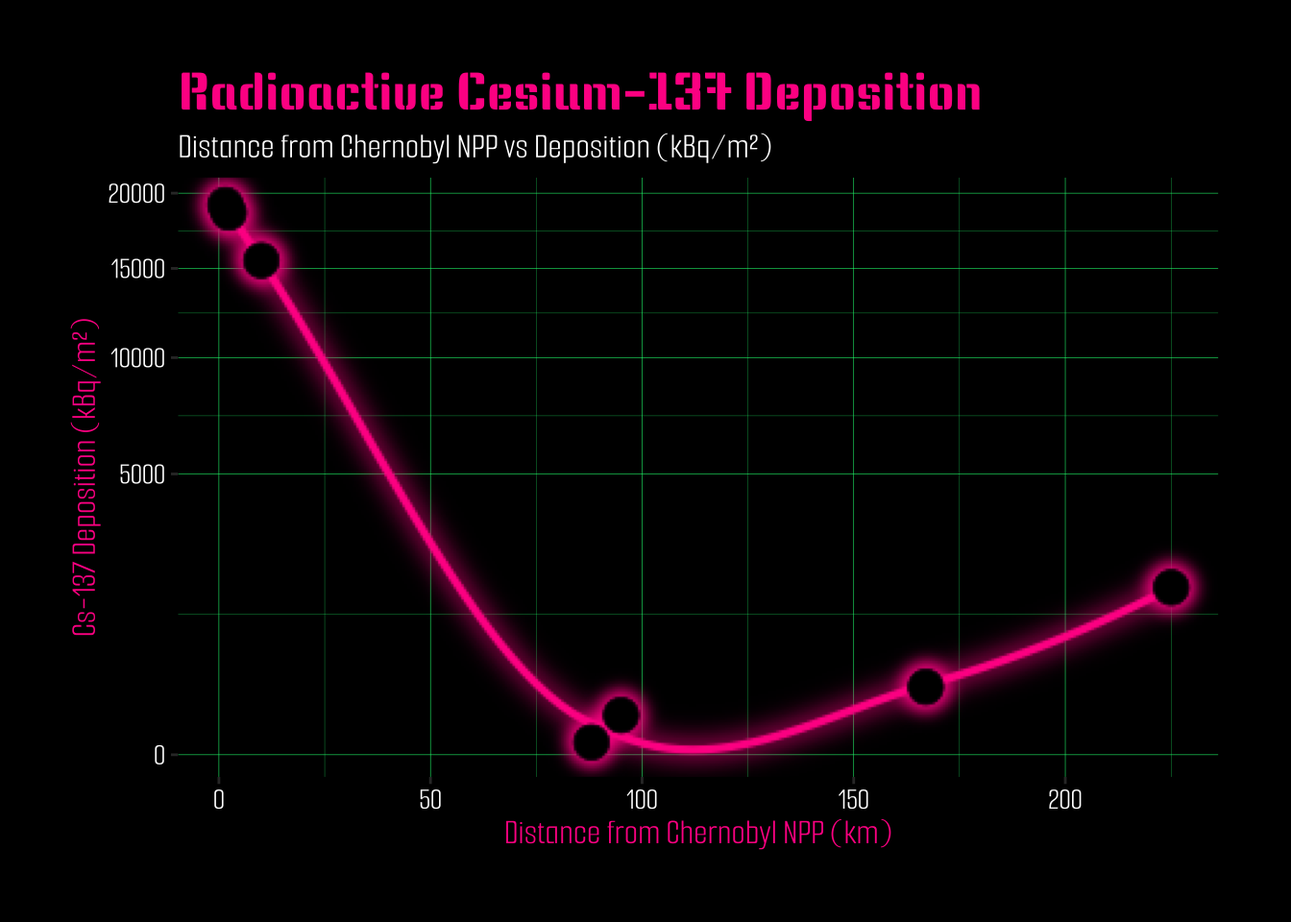
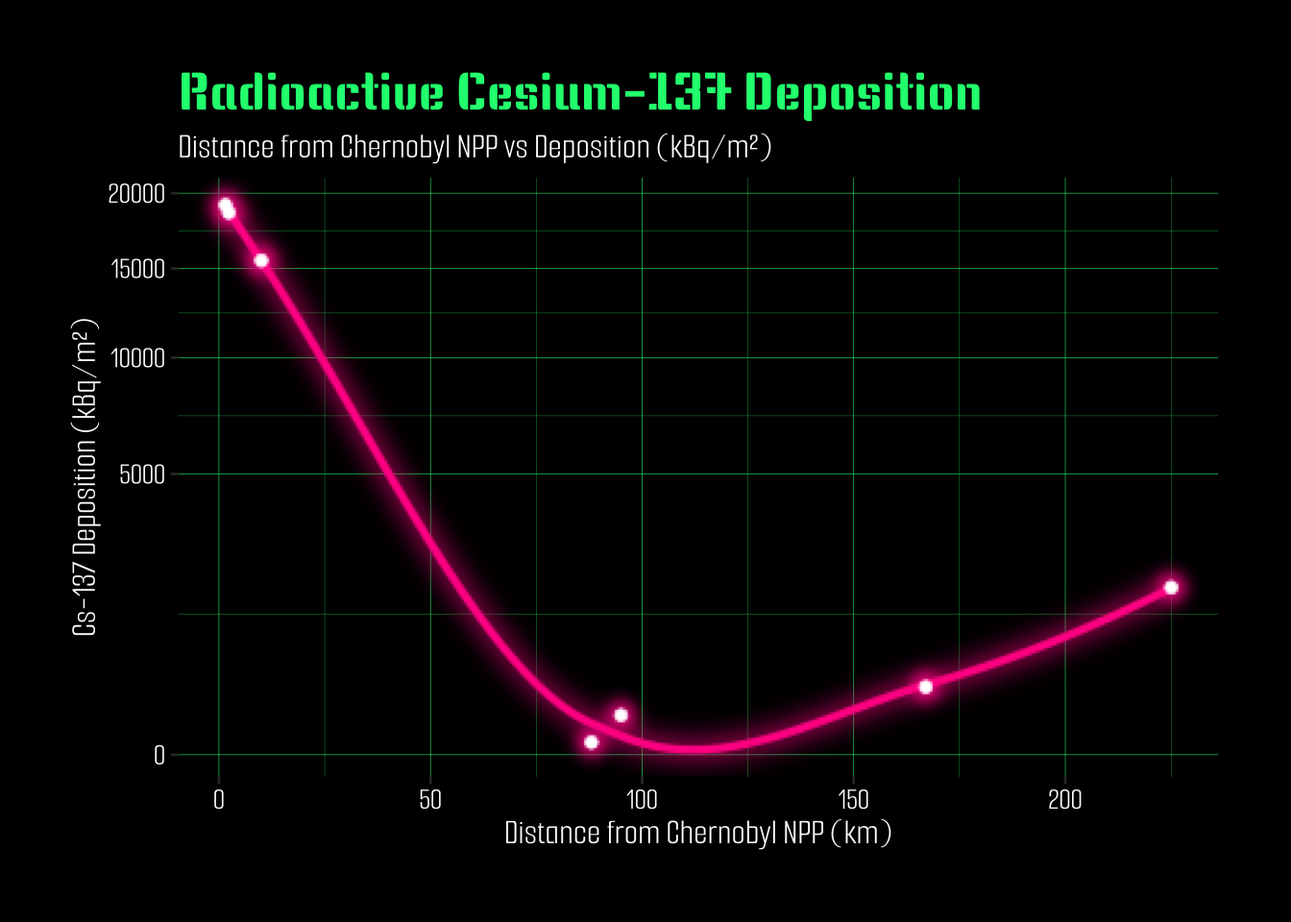
moving to hw4 repo

diff --git a/eds240-hw3.html b/eds240-hw3.html
@@ -148,20 +148,22 @@ pre > code.sourceCode > span > a:first-child::before { text-decoration: underlin
 <span id="cb1-3"><a href="#cb1-3" aria-hidden="true" tabindex="-1"></a><span class="fu">library</span>(dplyr) </span>
 <span id="cb1-4"><a href="#cb1-4" aria-hidden="true" tabindex="-1"></a><span class="fu">library</span>(ggplot2)</span>
 <span id="cb1-5"><a href="#cb1-5" aria-hidden="true" tabindex="-1"></a><span class="fu">library</span>(janitor)</span>
-<span id="cb1-6"><a href="#cb1-6" aria-hidden="true" tabindex="-1"></a><span class="fu">library</span>(sf)</span>
-<span id="cb1-7"><a href="#cb1-7" aria-hidden="true" tabindex="-1"></a><span class="fu">library</span>(scico)</span>
-<span id="cb1-8"><a href="#cb1-8" aria-hidden="true" tabindex="-1"></a><span class="fu">library</span>(tidyverse)</span>
-<span id="cb1-9"><a href="#cb1-9" aria-hidden="true" tabindex="-1"></a><span class="fu">library</span>(htmltools)</span>
-<span id="cb1-10"><a href="#cb1-10" aria-hidden="true" tabindex="-1"></a><span class="fu">library</span>(ggrepel)</span>
-<span id="cb1-11"><a href="#cb1-11" aria-hidden="true" tabindex="-1"></a><span class="fu">library</span>(scales)</span>
-<span id="cb1-12"><a href="#cb1-12" aria-hidden="true" tabindex="-1"></a><span class="fu">library</span>(stringr)</span>
-<span id="cb1-13"><a href="#cb1-13" aria-hidden="true" tabindex="-1"></a><span class="fu">library</span>(lubridate)</span>
-<span id="cb1-14"><a href="#cb1-14" aria-hidden="true" tabindex="-1"></a><span class="fu">library</span>(ggimage)</span>
-<span id="cb1-15"><a href="#cb1-15" aria-hidden="true" tabindex="-1"></a><span class="fu">library</span>(ggfx)</span>
-<span id="cb1-16"><a href="#cb1-16" aria-hidden="true" tabindex="-1"></a><span class="fu">library</span>(ggtext)</span>
-<span id="cb1-17"><a href="#cb1-17" aria-hidden="true" tabindex="-1"></a><span class="fu">library</span>(sysfonts)</span>
-<span id="cb1-18"><a href="#cb1-18" aria-hidden="true" tabindex="-1"></a><span class="fu">library</span>(magick)</span>
-<span id="cb1-19"><a href="#cb1-19" aria-hidden="true" tabindex="-1"></a><span class="fu">library</span>(showtext)</span></code><button title="Copy to Clipboard" class="code-copy-button"><i class="bi"></i></button></pre></div>
+<span id="cb1-6"><a href="#cb1-6" aria-hidden="true" tabindex="-1"></a><span class="fu">library</span>(jpeg)</span>
+<span id="cb1-7"><a href="#cb1-7" aria-hidden="true" tabindex="-1"></a><span class="fu">library</span>(patchwork)</span>
+<span id="cb1-8"><a href="#cb1-8" aria-hidden="true" tabindex="-1"></a><span class="fu">library</span>(scico)</span>
+<span id="cb1-9"><a href="#cb1-9" aria-hidden="true" tabindex="-1"></a><span class="fu">library</span>(tidyverse)</span>
+<span id="cb1-10"><a href="#cb1-10" aria-hidden="true" tabindex="-1"></a><span class="fu">library</span>(htmltools)</span>
+<span id="cb1-11"><a href="#cb1-11" aria-hidden="true" tabindex="-1"></a><span class="fu">library</span>(ggrepel)</span>
+<span id="cb1-12"><a href="#cb1-12" aria-hidden="true" tabindex="-1"></a><span class="fu">library</span>(grid)</span>
+<span id="cb1-13"><a href="#cb1-13" aria-hidden="true" tabindex="-1"></a><span class="fu">library</span>(scales)</span>
+<span id="cb1-14"><a href="#cb1-14" aria-hidden="true" tabindex="-1"></a><span class="fu">library</span>(stringr)</span>
+<span id="cb1-15"><a href="#cb1-15" aria-hidden="true" tabindex="-1"></a><span class="fu">library</span>(lubridate)</span>
+<span id="cb1-16"><a href="#cb1-16" aria-hidden="true" tabindex="-1"></a><span class="fu">library</span>(ggimage)</span>
+<span id="cb1-17"><a href="#cb1-17" aria-hidden="true" tabindex="-1"></a><span class="fu">library</span>(ggfx)</span>
+<span id="cb1-18"><a href="#cb1-18" aria-hidden="true" tabindex="-1"></a><span class="fu">library</span>(ggtext)</span>
+<span id="cb1-19"><a href="#cb1-19" aria-hidden="true" tabindex="-1"></a><span class="fu">library</span>(sysfonts)</span>
+<span id="cb1-20"><a href="#cb1-20" aria-hidden="true" tabindex="-1"></a><span class="fu">library</span>(magick)</span>
+<span id="cb1-21"><a href="#cb1-21" aria-hidden="true" tabindex="-1"></a><span class="fu">library</span>(showtext)</span></code><button title="Copy to Clipboard" class="code-copy-button"><i class="bi"></i></button></pre></div>
 </div>
 <div class="cell">
 <div class="sourceCode cell-code" id="cb2"><pre class="sourceCode r code-with-copy"><code class="sourceCode r"><span id="cb2-1"><a href="#cb2-1" aria-hidden="true" tabindex="-1"></a><span class="co"># paths </span></span>
@@ -417,65 +419,101 @@ Ignoring unknown parameters: `linejoin`</code></pre>
 <section id="create-exposure-data-viz" class="level1">
 <h1>Create exposure data viz</h1>
 <div class="cell">
-<div class="sourceCode cell-code" id="cb17"><pre class="sourceCode r code-with-copy"><code class="sourceCode r"><span id="cb17-1"><a href="#cb17-1" aria-hidden="true" tabindex="-1"></a>exposure <span class="ot">&lt;-</span> <span class="fu">ggplot</span>(chernobyl_exposure, <span class="fu">aes</span>(</span>
-<span id="cb17-2"><a href="#cb17-2" aria-hidden="true" tabindex="-1"></a>  <span class="at">x =</span> distance_from_ch_npp_km,</span>
-<span id="cb17-3"><a href="#cb17-3" aria-hidden="true" tabindex="-1"></a>  <span class="at">y =</span> <span class="dv">1</span>,</span>
-<span id="cb17-4"><a href="#cb17-4" aria-hidden="true" tabindex="-1"></a>  <span class="at">fill =</span> exposure_dose_rate_m_r_h</span>
-<span id="cb17-5"><a href="#cb17-5" aria-hidden="true" tabindex="-1"></a>)) <span class="sc">+</span></span>
-<span id="cb17-6"><a href="#cb17-6" aria-hidden="true" tabindex="-1"></a>  </span>
-<span id="cb17-7"><a href="#cb17-7" aria-hidden="true" tabindex="-1"></a>  <span class="fu">geom_tile</span>(<span class="at">width =</span> <span class="dv">8</span>, <span class="at">height =</span> <span class="dv">1</span>) <span class="sc">+</span> </span>
-<span id="cb17-8"><a href="#cb17-8" aria-hidden="true" tabindex="-1"></a>    </span>
-<span id="cb17-9"><a href="#cb17-9" aria-hidden="true" tabindex="-1"></a>  <span class="fu">scale_fill_gradientn</span>(</span>
-<span id="cb17-10"><a href="#cb17-10" aria-hidden="true" tabindex="-1"></a>      </span>
-<span id="cb17-11"><a href="#cb17-11" aria-hidden="true" tabindex="-1"></a>    <span class="at">colours =</span> <span class="fu">c</span>(<span class="st">"springgreen"</span>,<span class="st">"deeppink"</span>, <span class="st">"firebrick2"</span>),</span>
-<span id="cb17-12"><a href="#cb17-12" aria-hidden="true" tabindex="-1"></a>    <span class="at">name =</span> <span class="st">"Dose Rate</span><span class="sc">\n</span><span class="st">(mR/h)"</span>,</span>
-<span id="cb17-13"><a href="#cb17-13" aria-hidden="true" tabindex="-1"></a>    <span class="at">transform =</span> <span class="st">"sqrt"</span></span>
-<span id="cb17-14"><a href="#cb17-14" aria-hidden="true" tabindex="-1"></a>    </span>
-<span id="cb17-15"><a href="#cb17-15" aria-hidden="true" tabindex="-1"></a>    ) <span class="sc">+</span></span>
-<span id="cb17-16"><a href="#cb17-16" aria-hidden="true" tabindex="-1"></a>    </span>
-<span id="cb17-17"><a href="#cb17-17" aria-hidden="true" tabindex="-1"></a>  <span class="fu">guides</span>(<span class="at">fill =</span> <span class="fu">guide_colorbar</span>(</span>
-<span id="cb17-18"><a href="#cb17-18" aria-hidden="true" tabindex="-1"></a>    </span>
-<span id="cb17-19"><a href="#cb17-19" aria-hidden="true" tabindex="-1"></a>    <span class="at">barwidth =</span> <span class="dv">20</span>,</span>
-<span id="cb17-20"><a href="#cb17-20" aria-hidden="true" tabindex="-1"></a>    <span class="at">barheight =</span> <span class="fl">0.4</span>,</span>
-<span id="cb17-21"><a href="#cb17-21" aria-hidden="true" tabindex="-1"></a>    <span class="at">reverse =</span> <span class="cn">TRUE</span>)</span>
-<span id="cb17-22"><a href="#cb17-22" aria-hidden="true" tabindex="-1"></a>    </span>
-<span id="cb17-23"><a href="#cb17-23" aria-hidden="true" tabindex="-1"></a>    ) <span class="sc">+</span></span>
-<span id="cb17-24"><a href="#cb17-24" aria-hidden="true" tabindex="-1"></a>    </span>
-<span id="cb17-25"><a href="#cb17-25" aria-hidden="true" tabindex="-1"></a>  <span class="fu">labs</span>(</span>
+<div class="sourceCode cell-code" id="cb17"><pre class="sourceCode r code-with-copy"><code class="sourceCode r"><span id="cb17-1"><a href="#cb17-1" aria-hidden="true" tabindex="-1"></a><span class="co"># save power plant image path </span></span>
+<span id="cb17-2"><a href="#cb17-2" aria-hidden="true" tabindex="-1"></a>path <span class="ot">&lt;-</span> <span class="fu">here</span>(<span class="st">"samples"</span>, <span class="st">"plant.png"</span>)</span>
+<span id="cb17-3"><a href="#cb17-3" aria-hidden="true" tabindex="-1"></a></span>
+<span id="cb17-4"><a href="#cb17-4" aria-hidden="true" tabindex="-1"></a><span class="co"># read as JPEG</span></span>
+<span id="cb17-5"><a href="#cb17-5" aria-hidden="true" tabindex="-1"></a>plant <span class="ot">&lt;-</span> <span class="fu">readJPEG</span>(path, <span class="at">native =</span> <span class="cn">FALSE</span>)</span>
+<span id="cb17-6"><a href="#cb17-6" aria-hidden="true" tabindex="-1"></a></span>
+<span id="cb17-7"><a href="#cb17-7" aria-hidden="true" tabindex="-1"></a><span class="co"># turn to raster grob</span></span>
+<span id="cb17-8"><a href="#cb17-8" aria-hidden="true" tabindex="-1"></a>plant_grob <span class="ot">&lt;-</span> <span class="fu">rasterGrob</span>(plant,</span>
+<span id="cb17-9"><a href="#cb17-9" aria-hidden="true" tabindex="-1"></a>                         <span class="at">width =</span> <span class="fu">unit</span>(<span class="dv">3</span>, <span class="st">"cm"</span>), </span>
+<span id="cb17-10"><a href="#cb17-10" aria-hidden="true" tabindex="-1"></a>                         <span class="at">x =</span> <span class="fu">unit</span>(<span class="dv">0</span>, <span class="st">"npc"</span>),  </span>
+<span id="cb17-11"><a href="#cb17-11" aria-hidden="true" tabindex="-1"></a>                         <span class="at">y =</span> <span class="fu">unit</span>(<span class="dv">0</span>, <span class="st">"npc"</span>), </span>
+<span id="cb17-12"><a href="#cb17-12" aria-hidden="true" tabindex="-1"></a>                         <span class="at">just =</span> <span class="fu">c</span>(<span class="st">"left"</span>, <span class="st">"center"</span>)) </span>
+<span id="cb17-13"><a href="#cb17-13" aria-hidden="true" tabindex="-1"></a>                    </span>
+<span id="cb17-14"><a href="#cb17-14" aria-hidden="true" tabindex="-1"></a>                    </span>
+<span id="cb17-15"><a href="#cb17-15" aria-hidden="true" tabindex="-1"></a>                    </span>
+<span id="cb17-16"><a href="#cb17-16" aria-hidden="true" tabindex="-1"></a>                    </span>
+<span id="cb17-17"><a href="#cb17-17" aria-hidden="true" tabindex="-1"></a></span>
+<span id="cb17-18"><a href="#cb17-18" aria-hidden="true" tabindex="-1"></a><span class="co"># make main plot</span></span>
+<span id="cb17-19"><a href="#cb17-19" aria-hidden="true" tabindex="-1"></a>exposure <span class="ot">&lt;-</span> <span class="fu">ggplot</span>(chernobyl_exposure, <span class="fu">aes</span>(</span>
+<span id="cb17-20"><a href="#cb17-20" aria-hidden="true" tabindex="-1"></a>  <span class="at">y =</span> <span class="dv">0</span>,  </span>
+<span id="cb17-21"><a href="#cb17-21" aria-hidden="true" tabindex="-1"></a>  <span class="at">x =</span> distance_from_ch_npp_km,</span>
+<span id="cb17-22"><a href="#cb17-22" aria-hidden="true" tabindex="-1"></a>  <span class="at">fill =</span> absorbed_dose_rate_micro_gray_h</span>
+<span id="cb17-23"><a href="#cb17-23" aria-hidden="true" tabindex="-1"></a>)) <span class="sc">+</span></span>
+<span id="cb17-24"><a href="#cb17-24" aria-hidden="true" tabindex="-1"></a>  </span>
+<span id="cb17-25"><a href="#cb17-25" aria-hidden="true" tabindex="-1"></a>  <span class="fu">geom_tile</span>(<span class="at">width =</span> <span class="fl">7.5</span>, <span class="at">height =</span> <span class="fl">0.6</span>) <span class="sc">+</span>  <span class="co"># thinner bar by reducing height</span></span>
 <span id="cb17-26"><a href="#cb17-26" aria-hidden="true" tabindex="-1"></a>    </span>
-<span id="cb17-27"><a href="#cb17-27" aria-hidden="true" tabindex="-1"></a>    <span class="at">title =</span> <span class="st">"RADIATION EXPOSURE BY PROXIMITY TO CHERNOBYL NUCLEAR POWER PLANT MEASURED FROM JANUARY 1987 TO JUNE, 1987"</span>,</span>
-<span id="cb17-28"><a href="#cb17-28" aria-hidden="true" tabindex="-1"></a>    </span>
-<span id="cb17-29"><a href="#cb17-29" aria-hidden="true" tabindex="-1"></a>    <span class="at">subtitle =</span> <span class="st">"Dangerous levels of radiation reached even those who were 40 km(+) away from the Chernobyl Power Plant"</span>,</span>
-<span id="cb17-30"><a href="#cb17-30" aria-hidden="true" tabindex="-1"></a>    </span>
-<span id="cb17-31"><a href="#cb17-31" aria-hidden="true" tabindex="-1"></a>    <span class="at">x =</span> <span class="st">"Distance from Chernobyl NPP (km)"</span>,</span>
+<span id="cb17-27"><a href="#cb17-27" aria-hidden="true" tabindex="-1"></a>  <span class="fu">scale_fill_gradientn</span>(</span>
+<span id="cb17-28"><a href="#cb17-28" aria-hidden="true" tabindex="-1"></a>    <span class="at">colours =</span> <span class="fu">c</span>(<span class="st">"springgreen"</span>, <span class="st">"deeppink"</span>, <span class="st">"firebrick2"</span>),</span>
+<span id="cb17-29"><a href="#cb17-29" aria-hidden="true" tabindex="-1"></a>    <span class="at">name =</span> <span class="st">"Absorbed Dose Rate</span><span class="sc">\n</span><span class="st">(mGy/h)"</span>,</span>
+<span id="cb17-30"><a href="#cb17-30" aria-hidden="true" tabindex="-1"></a>    <span class="at">transform =</span> <span class="st">"sqrt"</span></span>
+<span id="cb17-31"><a href="#cb17-31" aria-hidden="true" tabindex="-1"></a>  ) <span class="sc">+</span></span>
 <span id="cb17-32"><a href="#cb17-32" aria-hidden="true" tabindex="-1"></a>    </span>
-<span id="cb17-33"><a href="#cb17-33" aria-hidden="true" tabindex="-1"></a>    <span class="at">y =</span> <span class="cn">NULL</span></span>
-<span id="cb17-34"><a href="#cb17-34" aria-hidden="true" tabindex="-1"></a>    </span>
-<span id="cb17-35"><a href="#cb17-35" aria-hidden="true" tabindex="-1"></a>  ) <span class="sc">+</span></span>
-<span id="cb17-36"><a href="#cb17-36" aria-hidden="true" tabindex="-1"></a>  </span>
-<span id="cb17-37"><a href="#cb17-37" aria-hidden="true" tabindex="-1"></a>  <span class="fu">theme_minimal</span>(<span class="at">base_family =</span> <span class="st">"ss"</span>) <span class="sc">+</span></span>
-<span id="cb17-38"><a href="#cb17-38" aria-hidden="true" tabindex="-1"></a>  </span>
-<span id="cb17-39"><a href="#cb17-39" aria-hidden="true" tabindex="-1"></a>  <span class="fu">theme</span>(</span>
-<span id="cb17-40"><a href="#cb17-40" aria-hidden="true" tabindex="-1"></a>    <span class="at">plot.background =</span> <span class="fu">element_rect</span>(<span class="at">fill =</span> <span class="st">"black"</span>),</span>
-<span id="cb17-41"><a href="#cb17-41" aria-hidden="true" tabindex="-1"></a>    <span class="at">panel.grid =</span> <span class="fu">element_blank</span>(),</span>
-<span id="cb17-42"><a href="#cb17-42" aria-hidden="true" tabindex="-1"></a>    <span class="at">axis.text.y =</span> <span class="fu">element_blank</span>(),</span>
-<span id="cb17-43"><a href="#cb17-43" aria-hidden="true" tabindex="-1"></a>    <span class="at">axis.ticks.y =</span> <span class="fu">element_blank</span>(),</span>
-<span id="cb17-44"><a href="#cb17-44" aria-hidden="true" tabindex="-1"></a>    <span class="at">axis.title.y =</span> <span class="fu">element_blank</span>(),</span>
-<span id="cb17-45"><a href="#cb17-45" aria-hidden="true" tabindex="-1"></a>    <span class="at">axis.text.x =</span> <span class="fu">element_text</span>(<span class="at">color =</span> <span class="st">"white"</span>),</span>
-<span id="cb17-46"><a href="#cb17-46" aria-hidden="true" tabindex="-1"></a>    <span class="at">axis.title.x =</span> <span class="fu">element_text</span>(<span class="at">color =</span> <span class="st">"white"</span>),</span>
-<span id="cb17-47"><a href="#cb17-47" aria-hidden="true" tabindex="-1"></a>    <span class="at">plot.title =</span> <span class="fu">element_text</span>(<span class="at">color =</span> <span class="st">"springgreen"</span>, <span class="at">size =</span> <span class="dv">25</span>, <span class="at">family =</span> <span class="st">"ko"</span>),</span>
-<span id="cb17-48"><a href="#cb17-48" aria-hidden="true" tabindex="-1"></a>    <span class="at">plot.subtitle =</span> <span class="fu">element_text</span>(<span class="at">color =</span> <span class="st">"white"</span>, <span class="at">size =</span> <span class="dv">12</span>),</span>
-<span id="cb17-49"><a href="#cb17-49" aria-hidden="true" tabindex="-1"></a>    <span class="at">legend.title =</span> <span class="fu">element_text</span>(<span class="at">color =</span> <span class="st">"white"</span>),</span>
-<span id="cb17-50"><a href="#cb17-50" aria-hidden="true" tabindex="-1"></a>    <span class="at">legend.text =</span> <span class="fu">element_text</span>(<span class="at">color =</span> <span class="st">"white"</span>),</span>
-<span id="cb17-51"><a href="#cb17-51" aria-hidden="true" tabindex="-1"></a>    <span class="at">legend.position =</span> <span class="st">"bottom"</span>,</span>
-<span id="cb17-52"><a href="#cb17-52" aria-hidden="true" tabindex="-1"></a>    <span class="at">legend.direction =</span> <span class="st">"horizontal"</span></span>
-<span id="cb17-53"><a href="#cb17-53" aria-hidden="true" tabindex="-1"></a>  )</span>
-<span id="cb17-54"><a href="#cb17-54" aria-hidden="true" tabindex="-1"></a></span>
-<span id="cb17-55"><a href="#cb17-55" aria-hidden="true" tabindex="-1"></a>exposure</span></code><button title="Copy to Clipboard" class="code-copy-button"><i class="bi"></i></button></pre></div>
+<span id="cb17-33"><a href="#cb17-33" aria-hidden="true" tabindex="-1"></a>  <span class="fu">guides</span>(<span class="at">fill =</span> <span class="fu">guide_colorbar</span>(</span>
+<span id="cb17-34"><a href="#cb17-34" aria-hidden="true" tabindex="-1"></a>    <span class="at">barwidth =</span> <span class="fl">0.5</span>,</span>
+<span id="cb17-35"><a href="#cb17-35" aria-hidden="true" tabindex="-1"></a>    <span class="at">barheight =</span> <span class="dv">10</span>,</span>
+<span id="cb17-36"><a href="#cb17-36" aria-hidden="true" tabindex="-1"></a>    <span class="at">reverse =</span> <span class="cn">TRUE</span></span>
+<span id="cb17-37"><a href="#cb17-37" aria-hidden="true" tabindex="-1"></a>  )) <span class="sc">+</span></span>
+<span id="cb17-38"><a href="#cb17-38" aria-hidden="true" tabindex="-1"></a>    </span>
+<span id="cb17-39"><a href="#cb17-39" aria-hidden="true" tabindex="-1"></a>  <span class="fu">labs</span>(</span>
+<span id="cb17-40"><a href="#cb17-40" aria-hidden="true" tabindex="-1"></a>    <span class="at">title =</span> <span class="st">"RADIATION EXPOSURE BY PROXIMITY TO CHERNOBYL NUCLEAR POWER PLANT</span><span class="sc">\n</span><span class="st">MEASURED FROM JANUARY 1987 TO JUNE, 1987"</span>,</span>
+<span id="cb17-41"><a href="#cb17-41" aria-hidden="true" tabindex="-1"></a>    <span class="at">subtitle =</span> <span class="st">"Dangerous levels of radiation reached even those who were 40 km(+) away from the Chernobyl Power Plant"</span>,</span>
+<span id="cb17-42"><a href="#cb17-42" aria-hidden="true" tabindex="-1"></a>    <span class="at">x =</span> <span class="st">"Distance from Chernobyl NPP (km)"</span>,</span>
+<span id="cb17-43"><a href="#cb17-43" aria-hidden="true" tabindex="-1"></a>    <span class="at">y =</span> <span class="cn">NULL</span></span>
+<span id="cb17-44"><a href="#cb17-44" aria-hidden="true" tabindex="-1"></a>  ) <span class="sc">+</span></span>
+<span id="cb17-45"><a href="#cb17-45" aria-hidden="true" tabindex="-1"></a>  </span>
+<span id="cb17-46"><a href="#cb17-46" aria-hidden="true" tabindex="-1"></a>  <span class="fu">theme_minimal</span>(<span class="at">base_family =</span> <span class="st">"ss"</span>) <span class="sc">+</span></span>
+<span id="cb17-47"><a href="#cb17-47" aria-hidden="true" tabindex="-1"></a>  </span>
+<span id="cb17-48"><a href="#cb17-48" aria-hidden="true" tabindex="-1"></a>  <span class="fu">theme</span>(</span>
+<span id="cb17-49"><a href="#cb17-49" aria-hidden="true" tabindex="-1"></a>    <span class="at">plot.background =</span> <span class="fu">element_rect</span>(<span class="at">fill =</span> <span class="st">"black"</span>, <span class="at">color =</span> <span class="cn">NA</span>),</span>
+<span id="cb17-50"><a href="#cb17-50" aria-hidden="true" tabindex="-1"></a>    <span class="at">panel.background =</span> <span class="fu">element_rect</span>(<span class="at">fill =</span> <span class="st">"black"</span>, <span class="at">color =</span> <span class="cn">NA</span>),</span>
+<span id="cb17-51"><a href="#cb17-51" aria-hidden="true" tabindex="-1"></a>    <span class="at">panel.grid =</span> <span class="fu">element_blank</span>(),</span>
+<span id="cb17-52"><a href="#cb17-52" aria-hidden="true" tabindex="-1"></a>    <span class="at">axis.ticks.y =</span> <span class="fu">element_blank</span>(),</span>
+<span id="cb17-53"><a href="#cb17-53" aria-hidden="true" tabindex="-1"></a>    <span class="at">axis.title.y =</span> <span class="fu">element_blank</span>(),</span>
+<span id="cb17-54"><a href="#cb17-54" aria-hidden="true" tabindex="-1"></a>    </span>
+<span id="cb17-55"><a href="#cb17-55" aria-hidden="true" tabindex="-1"></a>    <span class="at">axis.text.x =</span> <span class="fu">element_text</span>(<span class="at">color =</span> <span class="st">"white"</span>, <span class="at">size =</span> <span class="dv">12</span>),</span>
+<span id="cb17-56"><a href="#cb17-56" aria-hidden="true" tabindex="-1"></a>    <span class="at">axis.title.x =</span> <span class="fu">element_text</span>(<span class="at">color =</span> <span class="st">"white"</span>, <span class="at">size =</span> <span class="dv">14</span>),</span>
+<span id="cb17-57"><a href="#cb17-57" aria-hidden="true" tabindex="-1"></a>    </span>
+<span id="cb17-58"><a href="#cb17-58" aria-hidden="true" tabindex="-1"></a>    <span class="at">plot.title =</span> <span class="fu">element_text</span>(</span>
+<span id="cb17-59"><a href="#cb17-59" aria-hidden="true" tabindex="-1"></a>      <span class="at">color =</span> <span class="st">"springgreen"</span>, </span>
+<span id="cb17-60"><a href="#cb17-60" aria-hidden="true" tabindex="-1"></a>      <span class="at">size =</span> <span class="dv">30</span>, </span>
+<span id="cb17-61"><a href="#cb17-61" aria-hidden="true" tabindex="-1"></a>      <span class="at">family =</span> <span class="st">"ko"</span>,</span>
+<span id="cb17-62"><a href="#cb17-62" aria-hidden="true" tabindex="-1"></a>      <span class="at">hjust =</span> <span class="fl">0.5</span>,</span>
+<span id="cb17-63"><a href="#cb17-63" aria-hidden="true" tabindex="-1"></a>      <span class="at">margin =</span> <span class="fu">margin</span>(<span class="at">b =</span> <span class="dv">0</span>, <span class="at">unit =</span> <span class="st">"pt"</span>)</span>
+<span id="cb17-64"><a href="#cb17-64" aria-hidden="true" tabindex="-1"></a>    ),</span>
+<span id="cb17-65"><a href="#cb17-65" aria-hidden="true" tabindex="-1"></a>    </span>
+<span id="cb17-66"><a href="#cb17-66" aria-hidden="true" tabindex="-1"></a>    <span class="at">plot.subtitle =</span> <span class="fu">element_text</span>(</span>
+<span id="cb17-67"><a href="#cb17-67" aria-hidden="true" tabindex="-1"></a>      <span class="at">color =</span> <span class="st">"white"</span>, </span>
+<span id="cb17-68"><a href="#cb17-68" aria-hidden="true" tabindex="-1"></a>      <span class="at">size =</span> <span class="dv">15</span>, </span>
+<span id="cb17-69"><a href="#cb17-69" aria-hidden="true" tabindex="-1"></a>      <span class="at">hjust =</span> <span class="fl">0.5</span>,</span>
+<span id="cb17-70"><a href="#cb17-70" aria-hidden="true" tabindex="-1"></a>      <span class="at">margin =</span> <span class="fu">margin</span>(<span class="at">b =</span> <span class="dv">20</span>, <span class="at">unit =</span> <span class="st">"pt"</span>)</span>
+<span id="cb17-71"><a href="#cb17-71" aria-hidden="true" tabindex="-1"></a>    ),</span>
+<span id="cb17-72"><a href="#cb17-72" aria-hidden="true" tabindex="-1"></a>    </span>
+<span id="cb17-73"><a href="#cb17-73" aria-hidden="true" tabindex="-1"></a>    <span class="at">plot.margin =</span> <span class="fu">margin</span>(<span class="at">t =</span> <span class="dv">50</span>, <span class="at">r =</span> <span class="dv">50</span>, <span class="at">b =</span> <span class="dv">50</span>, <span class="at">l =</span> <span class="dv">100</span>, <span class="at">unit =</span> <span class="st">"pt"</span>),</span>
+<span id="cb17-74"><a href="#cb17-74" aria-hidden="true" tabindex="-1"></a>    </span>
+<span id="cb17-75"><a href="#cb17-75" aria-hidden="true" tabindex="-1"></a>    <span class="at">legend.title =</span> <span class="fu">element_text</span>(<span class="at">color =</span> <span class="st">"white"</span>),</span>
+<span id="cb17-76"><a href="#cb17-76" aria-hidden="true" tabindex="-1"></a>    <span class="at">legend.text =</span> <span class="fu">element_text</span>(<span class="at">color =</span> <span class="st">"white"</span>),</span>
+<span id="cb17-77"><a href="#cb17-77" aria-hidden="true" tabindex="-1"></a>    <span class="at">legend.position =</span> <span class="st">"right"</span>,</span>
+<span id="cb17-78"><a href="#cb17-78" aria-hidden="true" tabindex="-1"></a>    <span class="at">legend.direction =</span> <span class="st">"vertical"</span></span>
+<span id="cb17-79"><a href="#cb17-79" aria-hidden="true" tabindex="-1"></a>  ) <span class="sc">+</span></span>
+<span id="cb17-80"><a href="#cb17-80" aria-hidden="true" tabindex="-1"></a>  </span>
+<span id="cb17-81"><a href="#cb17-81" aria-hidden="true" tabindex="-1"></a>  <span class="fu">coord_cartesian</span>(<span class="at">clip =</span> <span class="st">"off"</span>, <span class="at">ylim =</span> <span class="fu">c</span>(<span class="sc">-</span><span class="dv">1</span>, <span class="dv">1</span>), <span class="at">xlim =</span> <span class="fu">c</span>(<span class="dv">0</span>,<span class="dv">60</span>)) <span class="sc">+</span></span>
+<span id="cb17-82"><a href="#cb17-82" aria-hidden="true" tabindex="-1"></a></span>
+<span id="cb17-83"><a href="#cb17-83" aria-hidden="true" tabindex="-1"></a>  <span class="fu">annotation_custom</span>(  </span>
+<span id="cb17-84"><a href="#cb17-84" aria-hidden="true" tabindex="-1"></a>    plant_grob,</span>
+<span id="cb17-85"><a href="#cb17-85" aria-hidden="true" tabindex="-1"></a>    <span class="at">xmin =</span> <span class="sc">-</span><span class="dv">9</span>,  <span class="co"># to place it just before 0 (left side of the bar)</span></span>
+<span id="cb17-86"><a href="#cb17-86" aria-hidden="true" tabindex="-1"></a>    <span class="at">xmax =</span> <span class="dv">5</span>,   <span class="co"># how much space it spans horizontally</span></span>
+<span id="cb17-87"><a href="#cb17-87" aria-hidden="true" tabindex="-1"></a>    <span class="at">ymin =</span> <span class="dv">0</span>,  <span class="co"># vertically aligned with your bar</span></span>
+<span id="cb17-88"><a href="#cb17-88" aria-hidden="true" tabindex="-1"></a>    <span class="at">ymax =</span> <span class="fl">0.5</span></span>
+<span id="cb17-89"><a href="#cb17-89" aria-hidden="true" tabindex="-1"></a>  )</span>
+<span id="cb17-90"><a href="#cb17-90" aria-hidden="true" tabindex="-1"></a></span>
+<span id="cb17-91"><a href="#cb17-91" aria-hidden="true" tabindex="-1"></a>exposure</span></code><button title="Copy to Clipboard" class="code-copy-button"><i class="bi"></i></button></pre></div>
 <div class="cell-output-display">
 <div>
 <figure class="figure">
-<p><img src="eds240-hw3_files/figure-html/unnamed-chunk-11-1.png" class="img-fluid figure-img" width="672"></p>
+<p><img src="eds240-hw3_files/figure-html/unnamed-chunk-11-1.png" class="img-fluid figure-img" width="1152"></p>
 </figure>
 </div>
 </div>
@@ -496,7 +534,7 @@ Ignoring unknown parameters: `linejoin`</code></pre>
 <span id="cb18-10"><a href="#cb18-10" aria-hidden="true" tabindex="-1"></a>  </span>
 <span id="cb18-11"><a href="#cb18-11" aria-hidden="true" tabindex="-1"></a>    <span class="co"># lakes as points</span></span>
 <span id="cb18-12"><a href="#cb18-12" aria-hidden="true" tabindex="-1"></a>  <span class="fu">with_outer_glow</span>(</span>
-<span id="cb18-13"><a href="#cb18-13" aria-hidden="true" tabindex="-1"></a>    <span class="fu">geom_point</span>(<span class="at">size =</span> <span class="dv">6</span>, <span class="at">color =</span> <span class="st">"black"</span>),</span>
+<span id="cb18-13"><a href="#cb18-13" aria-hidden="true" tabindex="-1"></a>    <span class="fu">geom_point</span>(<span class="at">size =</span> <span class="dv">2</span>, <span class="at">color =</span> <span class="st">"white"</span>),</span>
 <span id="cb18-14"><a href="#cb18-14" aria-hidden="true" tabindex="-1"></a>    <span class="at">colour =</span> <span class="st">"deeppink"</span>,</span>
 <span id="cb18-15"><a href="#cb18-15" aria-hidden="true" tabindex="-1"></a>    <span class="at">sigma =</span> <span class="dv">3</span>,</span>
 <span id="cb18-16"><a href="#cb18-16" aria-hidden="true" tabindex="-1"></a>    <span class="at">expand =</span> <span class="dv">3</span></span>
@@ -518,10 +556,10 @@ Ignoring unknown parameters: `linejoin`</code></pre>
 <span id="cb18-32"><a href="#cb18-32" aria-hidden="true" tabindex="-1"></a>    <span class="at">panel.grid =</span> <span class="fu">element_line</span>(<span class="at">colour =</span> <span class="st">"springgreen"</span>,</span>
 <span id="cb18-33"><a href="#cb18-33" aria-hidden="true" tabindex="-1"></a>                              <span class="at">linewidth =</span> <span class="fl">0.1</span>),</span>
 <span id="cb18-34"><a href="#cb18-34" aria-hidden="true" tabindex="-1"></a>    </span>
-<span id="cb18-35"><a href="#cb18-35" aria-hidden="true" tabindex="-1"></a>    <span class="at">axis.title =</span> <span class="fu">element_text</span>(<span class="at">color =</span> <span class="st">"deeppink"</span>, <span class="at">size =</span> <span class="dv">14</span>, <span class="at">family =</span> <span class="st">"ss"</span>),</span>
+<span id="cb18-35"><a href="#cb18-35" aria-hidden="true" tabindex="-1"></a>    <span class="at">axis.title =</span> <span class="fu">element_text</span>(<span class="at">color =</span> <span class="st">"white"</span>, <span class="at">size =</span> <span class="dv">14</span>, <span class="at">family =</span> <span class="st">"ss"</span>),</span>
 <span id="cb18-36"><a href="#cb18-36" aria-hidden="true" tabindex="-1"></a>    <span class="at">axis.text =</span> <span class="fu">element_text</span>(<span class="at">color =</span> <span class="st">"white"</span>, <span class="at">size =</span> <span class="dv">12</span>, <span class="at">family =</span> <span class="st">"ss"</span>),</span>
 <span id="cb18-37"><a href="#cb18-37" aria-hidden="true" tabindex="-1"></a>    </span>
-<span id="cb18-38"><a href="#cb18-38" aria-hidden="true" tabindex="-1"></a>    <span class="at">plot.title =</span> <span class="fu">element_text</span>(<span class="at">color =</span> <span class="st">"deeppink"</span>, <span class="at">size =</span> <span class="dv">20</span>, <span class="at">family =</span> <span class="st">"ko"</span>),</span>
+<span id="cb18-38"><a href="#cb18-38" aria-hidden="true" tabindex="-1"></a>    <span class="at">plot.title =</span> <span class="fu">element_text</span>(<span class="at">color =</span> <span class="st">"springgreen"</span>, <span class="at">size =</span> <span class="dv">20</span>, <span class="at">family =</span> <span class="st">"ko"</span>),</span>
 <span id="cb18-39"><a href="#cb18-39" aria-hidden="true" tabindex="-1"></a>    <span class="at">plot.subtitle =</span> <span class="fu">element_text</span>(<span class="at">color =</span> <span class="st">"white"</span>, <span class="at">size =</span> <span class="dv">14</span>, <span class="at">family =</span> <span class="st">"ss"</span>),</span>
 <span id="cb18-40"><a href="#cb18-40" aria-hidden="true" tabindex="-1"></a>    </span>
 <span id="cb18-41"><a href="#cb18-41" aria-hidden="true" tabindex="-1"></a>    <span class="at">plot.margin =</span> <span class="fu">margin</span>(<span class="dv">1</span>, <span class="dv">1</span>, <span class="dv">1</span>, <span class="dv">1</span>, <span class="st">"cm"</span>)</span>
@@ -560,7 +598,7 @@ Ignoring unknown parameters: `linejoin`</code></pre>
 <ol start="3" type="a">
 <li>What feedback do you need from the instructional team and / or your peers to ensure that your intended message is clear?</li>
 </ol>
-<p>I would particularly appreciate feedback on the cohesiveness of the aesthethic choices I have made thus far. I was also consdering including the art of some really cool nuclear power artists that I found but I could not think of the right place or the right way to showcase them. Any ideas on this would be greatly appreciated! I would also like feedback on how much context I should include in my infographic / data viz since nuclear energy is a rather technical topic and I understand that this is not everyones’ special itnerest!</p>
+<p>I would particularly appreciate feedback on the cohesiveness of the aesthethic choices I have made thus far. I was also consdering including the art of some really cool nuclear power artists that I found but I could not think of the right place or the right way to showcase them. Any ideas on this would be greatly appreciated! I would also like feedback on how much context I should include in my infographic / data viz since nuclear energy is a rather technical topic and I understand that this is not everyones’ special interest!</p>
 </section>
 
 </main>
